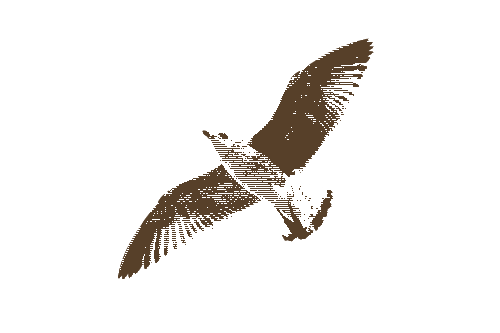
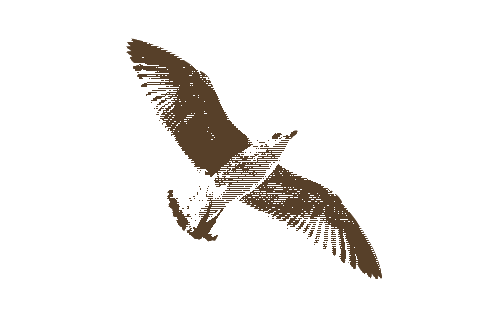
dd

Changed region(s): [[0.24, 0.1201, 0.78, 0.8408]]

diff --git a/style.css b/style.css
@@ -1118,7 +1118,7 @@ body {
 .birdCloudTemplate {
     position: relative;
     width: 100%;
-    height: 500px;
+    height: 450px;
     overflow: hidden;
 }
 
@@ -1135,6 +1135,7 @@ body {
 }
 
 .birdCloudTemplate.cloud {
+    margin-bottom: 70px;
     background-image: url("use_image/sky2.png");
     background-size: 600px auto;
     background-repeat: repeat-x;
